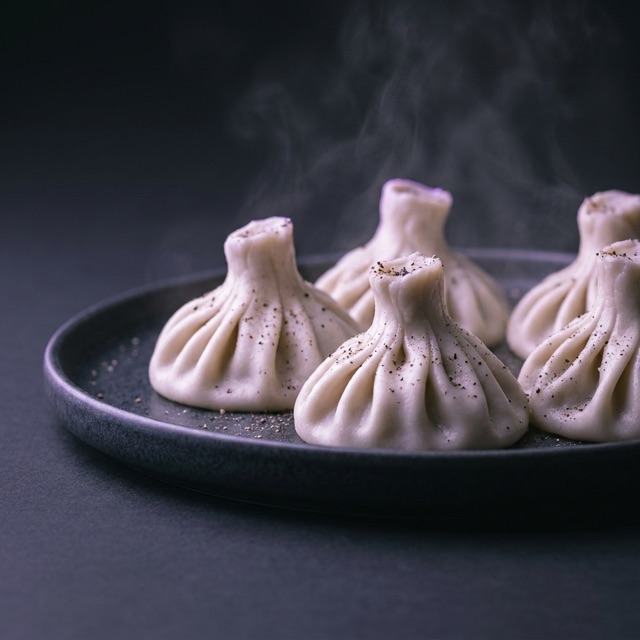
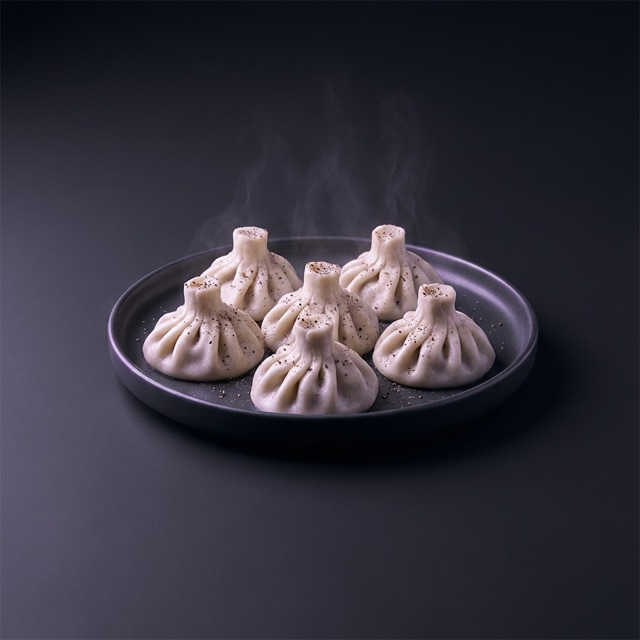
Fix detail sheet open-jump + re-shoot cropped khinkali photos
- Sheet: focus the panel with { preventScroll: true }. It was focused
  via rAF while still translated off-screen (y:100%), so the browser
  scroll-jumped it into view, fighting the slide-up — the 'drops up then
  settles' jank. preventScroll stops the scroll-into-view.
- Re-generated the three khinkali photos (d4/d5/d6) with an explicit
  'whole plate fully in frame, generous margin, nothing cropped at edges'
  composition — the originals ran the plate off the edge.

diff --git a/src/AvlaPayment.jsx b/src/AvlaPayment.jsx
@@ -654,7 +654,7 @@ function Sheet({ open, onClose, label, children }) {
   useEffect(() => {
     if (open) {
       prevFocus.current = document.activeElement;
-      requestAnimationFrame(() => ref.current && ref.current.focus());
+      requestAnimationFrame(() => ref.current && ref.current.focus({ preventScroll: true }));
     } else if (prevFocus.current && prevFocus.current.focus) {
       prevFocus.current.focus();
       prevFocus.current = null;
